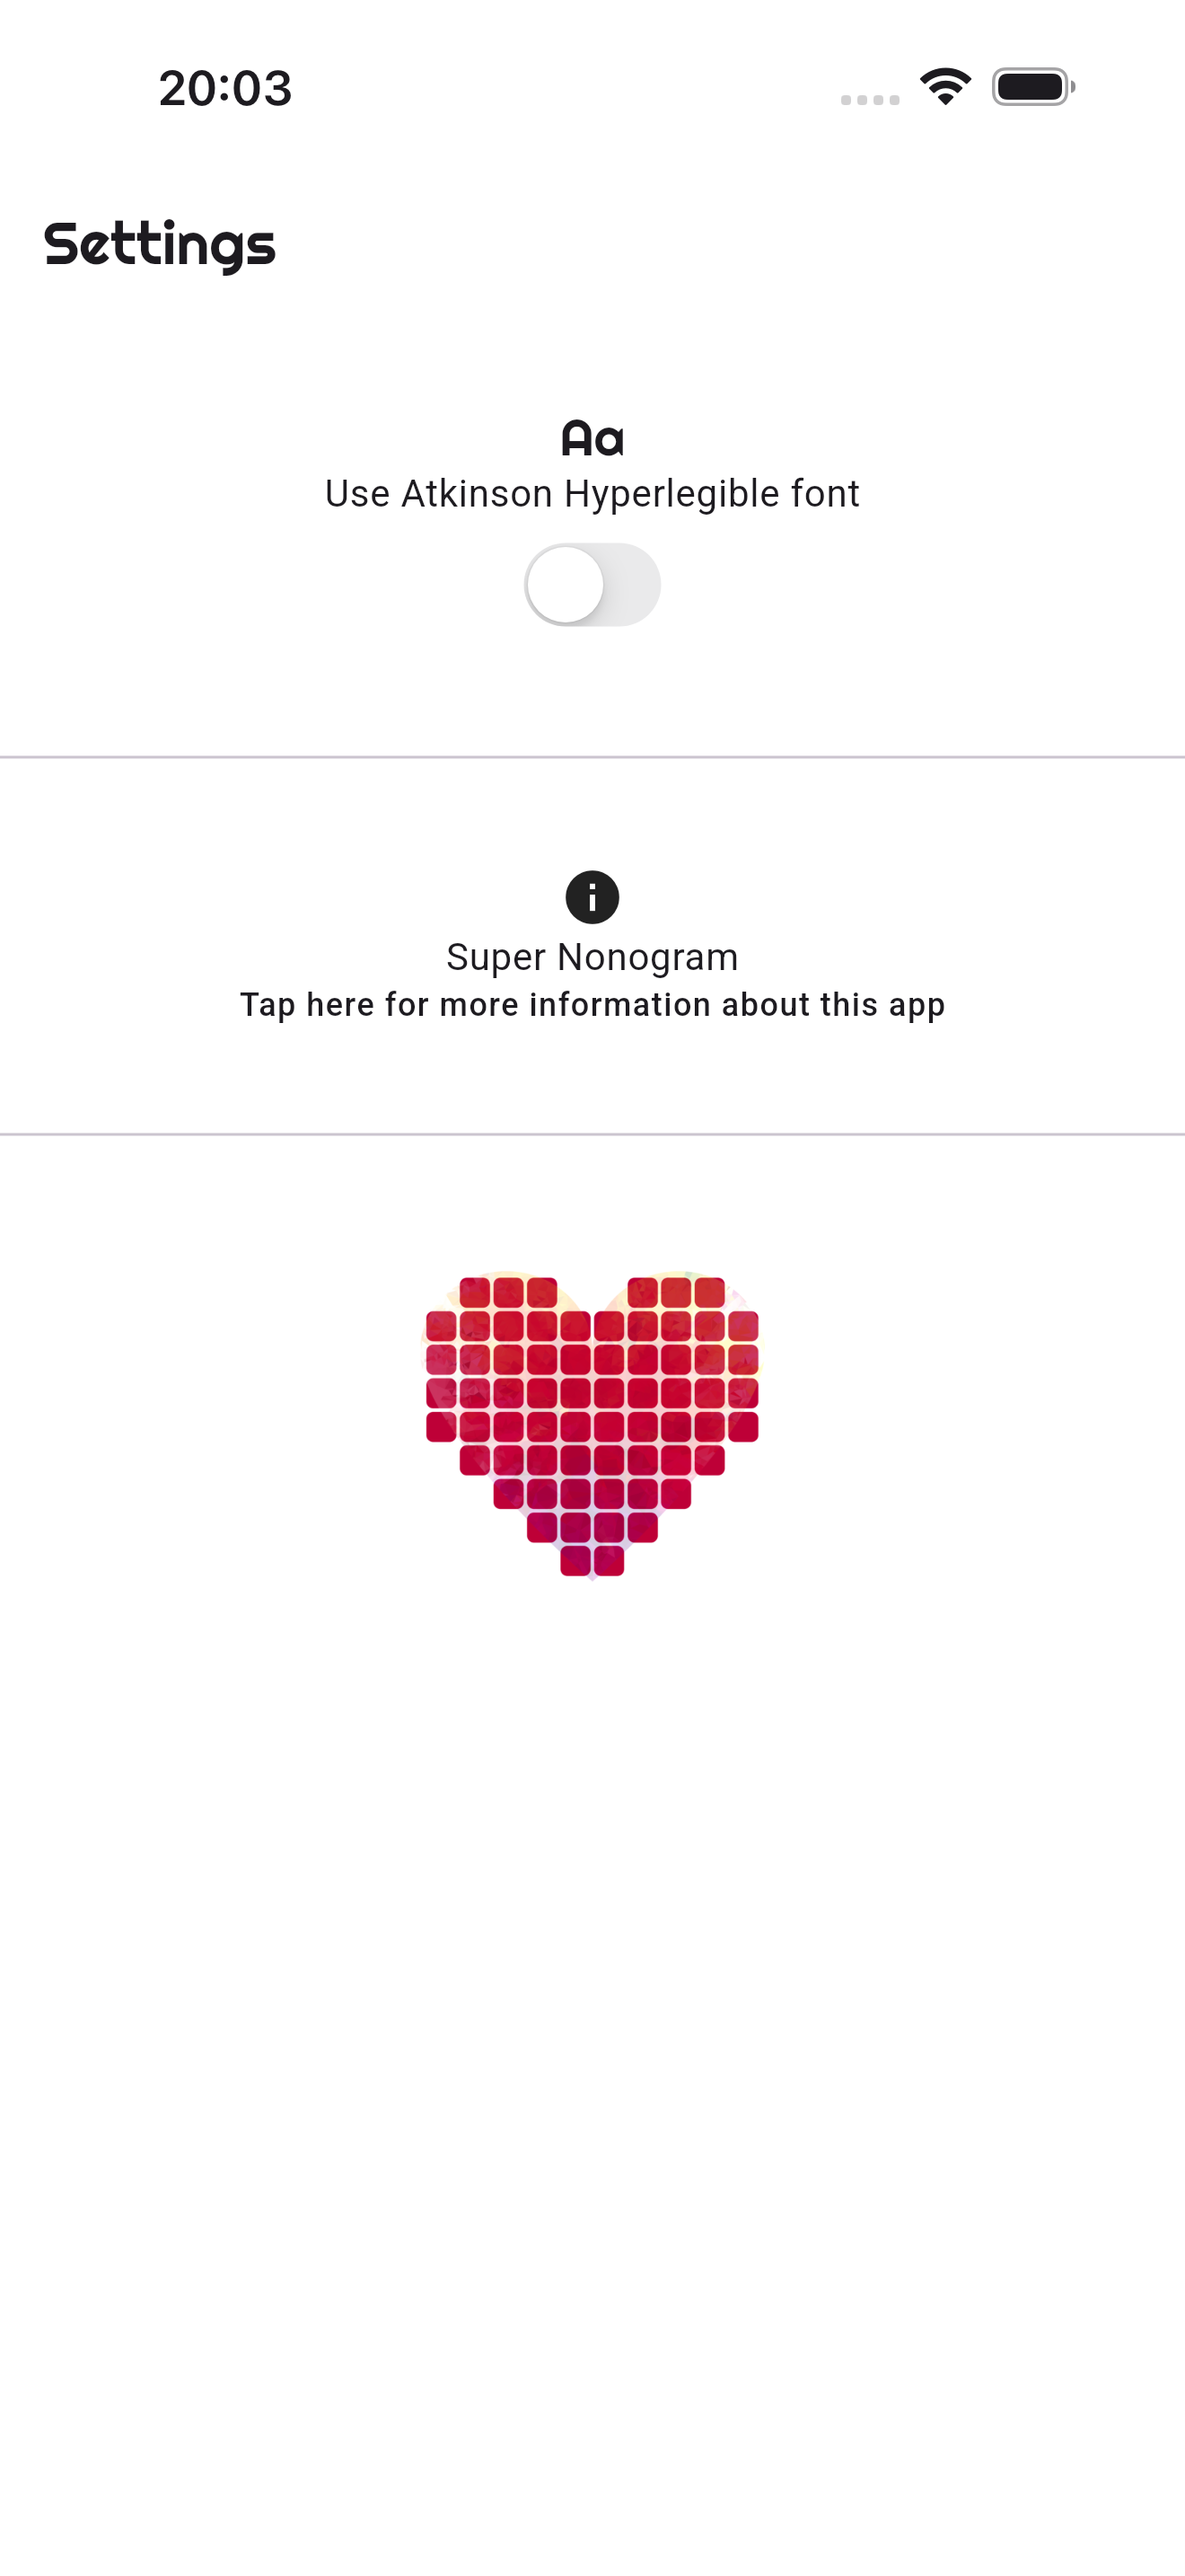
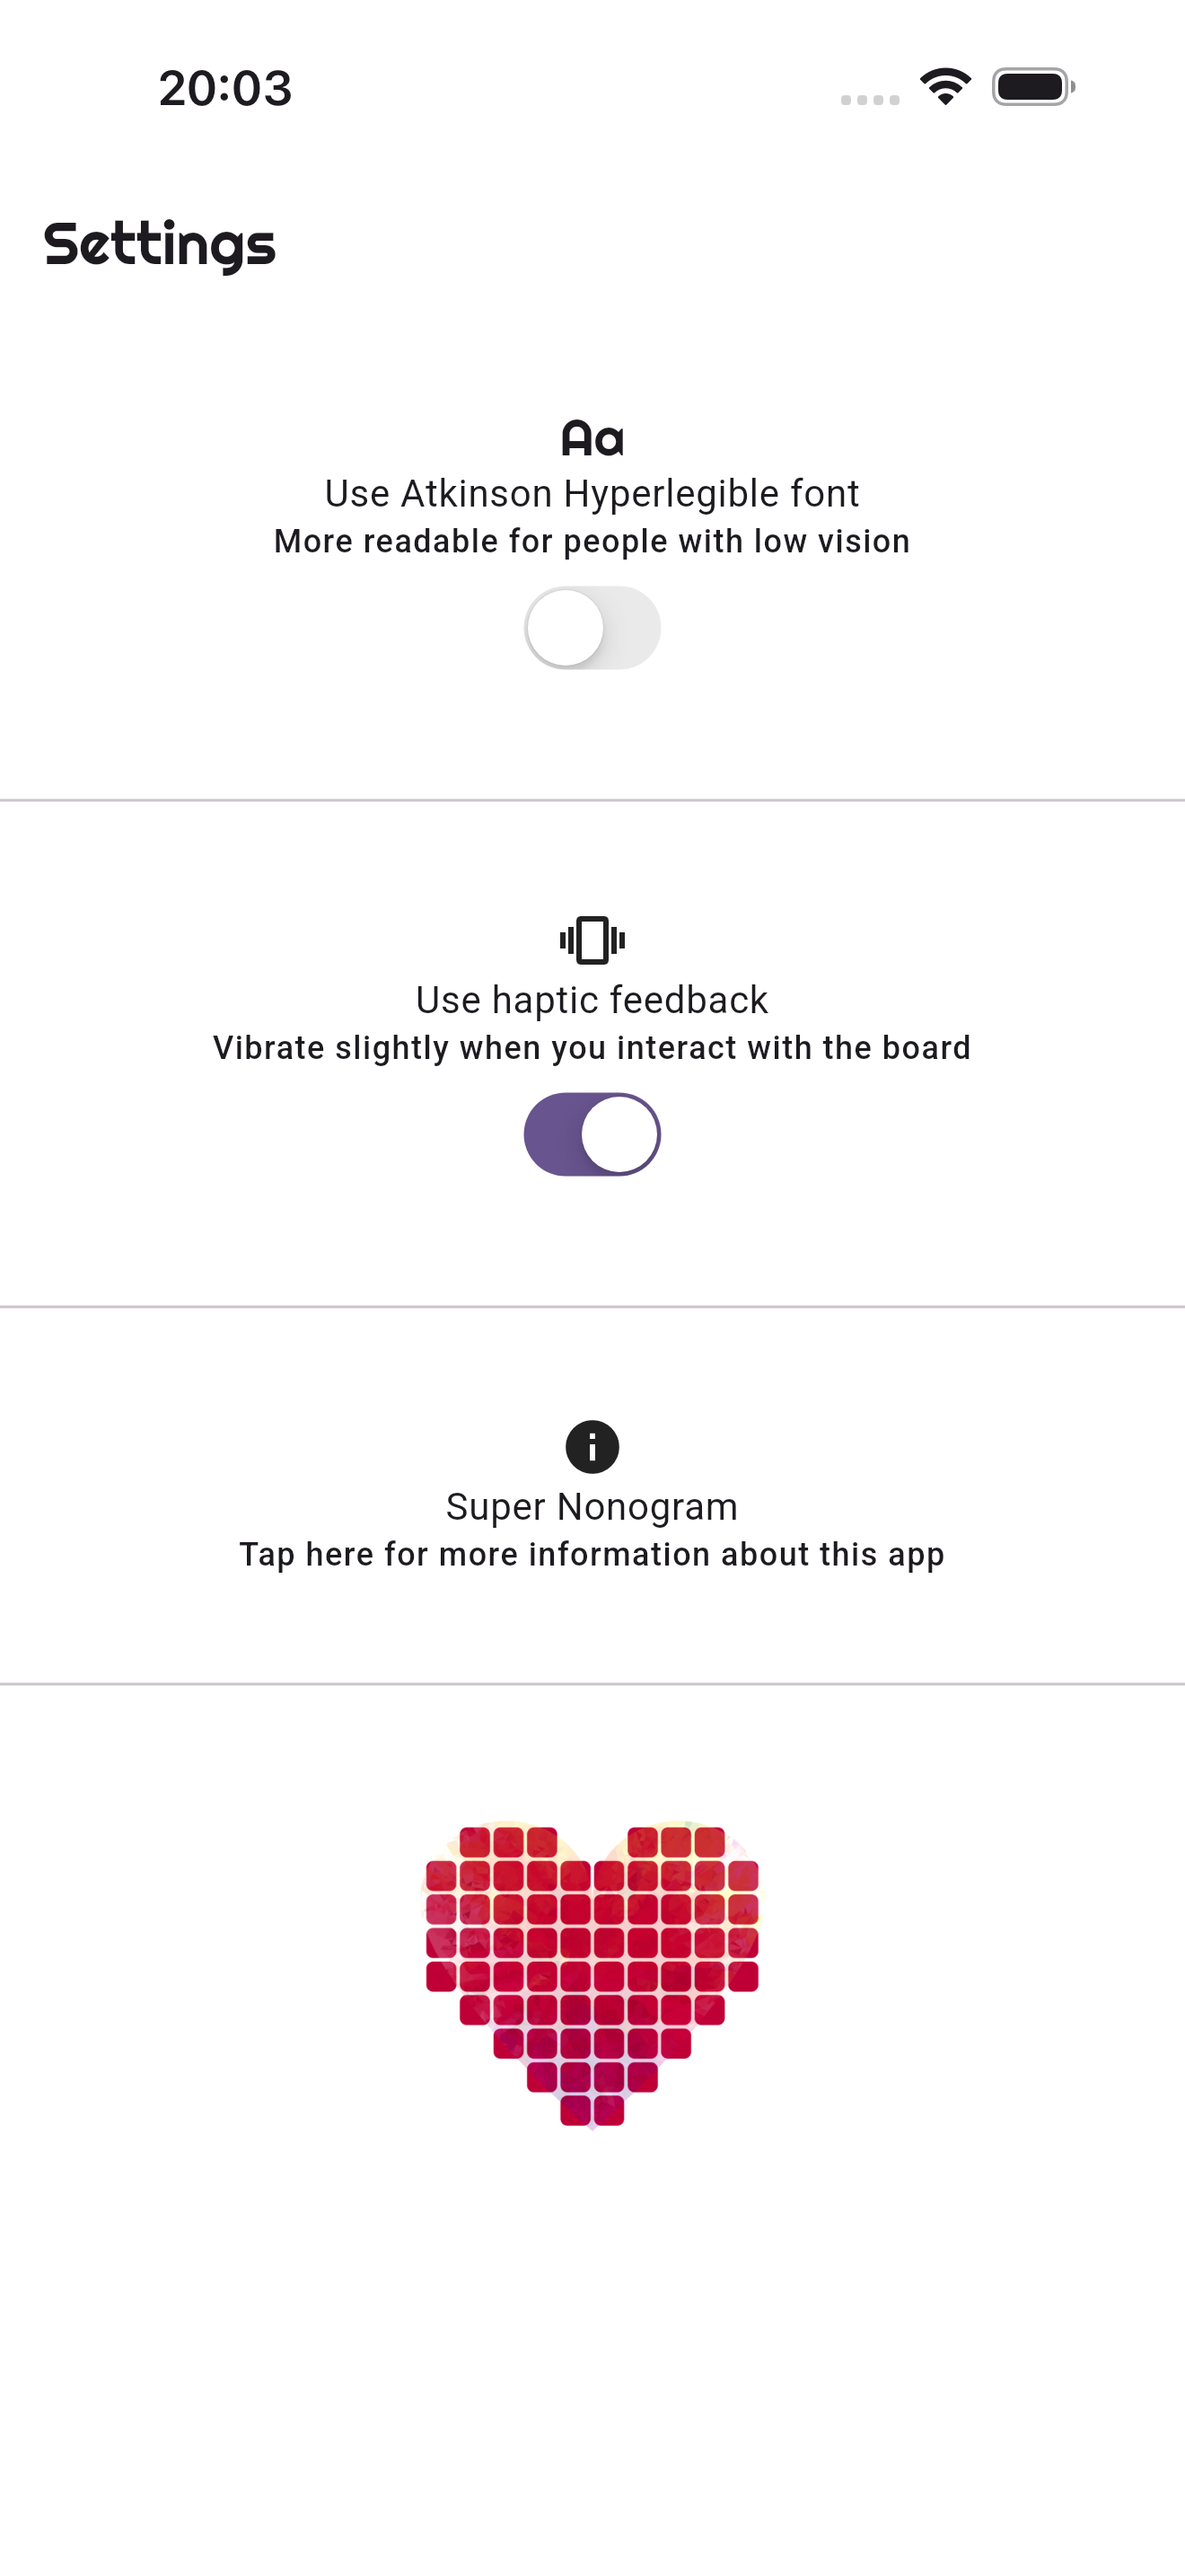
feat: add setting for haptic feedback

diff --git a/lib/pages/settings_page.dart b/lib/pages/settings_page.dart
@@ -30,8 +30,14 @@ class SettingsPage extends StatelessWidget {
                     style: textTheme.displaySmall?.copyWith(
                       fontSize: (iconTheme.size ?? 24) * 0.8,
                     ),
+                    softWrap: false,
                   ),
-                  Text(t.settings.hyperlegibleFont),
+                  Text(t.settings.hyperlegibleFont, textAlign: .center),
+                  Text(
+                    t.settings.hyperlegibleFontDescription,
+                    style: textTheme.labelMedium,
+                    textAlign: .center,
+                  ),
                   ListenableBuilder(
                     listenable: stows.hyperlegibleFont,
                     builder: (context, child) {
@@ -39,6 +45,32 @@ class SettingsPage extends StatelessWidget {
                         value: stows.hyperlegibleFont.value,
                         onChanged: (_) => stows.hyperlegibleFont.value =
                             !stows.hyperlegibleFont.value,
+                      );
+                    },
+                  ),
+                ],
+              ),
+              const Divider(),
+
+              // haptic feedback
+              SettingsItem(
+                onTap: () => stows.useHapticFeedback.value =
+                    !stows.useHapticFeedback.value,
+                children: [
+                  Icon(Icons.vibration),
+                  Text(t.settings.useHapticFeedback, textAlign: .center),
+                  Text(
+                    t.settings.useHapticFeedbackDescription,
+                    style: textTheme.labelMedium,
+                    textAlign: .center,
+                  ),
+                  ListenableBuilder(
+                    listenable: stows.useHapticFeedback,
+                    builder: (context, child) {
+                      return Switch.adaptive(
+                        value: stows.useHapticFeedback.value,
+                        onChanged: (_) => stows.useHapticFeedback.value =
+                            !stows.useHapticFeedback.value,
                       );
                     },
                   ),
@@ -56,8 +88,12 @@ class SettingsPage extends StatelessWidget {
                 },
                 children: [
                   const Icon(Icons.info),
-                  Text(t.title.appName),
-                  Text(t.settings.about, style: textTheme.labelMedium),
+                  Text(t.title.appName, textAlign: .center),
+                  Text(
+                    t.settings.about,
+                    style: textTheme.labelMedium,
+                    textAlign: .center,
+                  ),
                 ],
               ),
               const Divider(),

diff --git a/lib/util/sonic_controller.dart b/lib/util/sonic_controller.dart
@@ -1,13 +1,21 @@
 import 'package:flutter/services.dart';
+import 'package:super_nonogram/data/stows.dart';
 
 /// Handles haptic and sound feedback.
 // TODO(adil192): Add sound feedback
 abstract class SonicController {
   static void notifyTileChange() {
+    if (!stows.useHapticFeedback.value) return;
     HapticFeedback.mediumImpact(); // HapticFeedbackConstants.KEYBOARD_TAP
   }
 
   static void notifyLongPress() {
+    if (!stows.useHapticFeedback.value) return;
+    HapticFeedback.vibrate(); // HapticFeedbackConstants.LONG_PRESS
+  }
+
+  static void notifyHapticSettingChanged() {
+    if (!stows.useHapticFeedback.value) return;
     HapticFeedback.vibrate(); // HapticFeedbackConstants.LONG_PRESS
   }
 }

diff --git a/lib/i18n/strings_en.g.dart b/lib/i18n/strings_en.g.dart
@@ -145,6 +145,15 @@ class TranslationsSettingsEn {
 	/// en: 'Use Atkinson Hyperlegible font'
 	String get hyperlegibleFont => 'Use Atkinson Hyperlegible font';
 
+	/// en: 'More readable for people with low vision'
+	String get hyperlegibleFontDescription => 'More readable for people with low vision';
+
+	/// en: 'Use haptic feedback'
+	String get useHapticFeedback => 'Use haptic feedback';
+
+	/// en: 'Vibrate slightly when you interact with the board'
+	String get useHapticFeedbackDescription => 'Vibrate slightly when you interact with the board';
+
 	/// en: 'Tap here for more information about this app'
 	String get about => 'Tap here for more information about this app';
 

diff --git a/lib/data/stows.dart b/lib/data/stows.dart
@@ -6,9 +6,16 @@ class Stows {
   static bool isVolatile = true;
 
   final currentLevel = PlainStow('currentLevel', 1, volatile: isVolatile);
+
   final hyperlegibleFont = PlainStow(
     'hyperlegibleFont',
     false,
+    volatile: isVolatile,
+  );
+
+  final useHapticFeedback = PlainStow(
+    'useHapticFeedback',
+    true,
     volatile: isVolatile,
   );
 }
